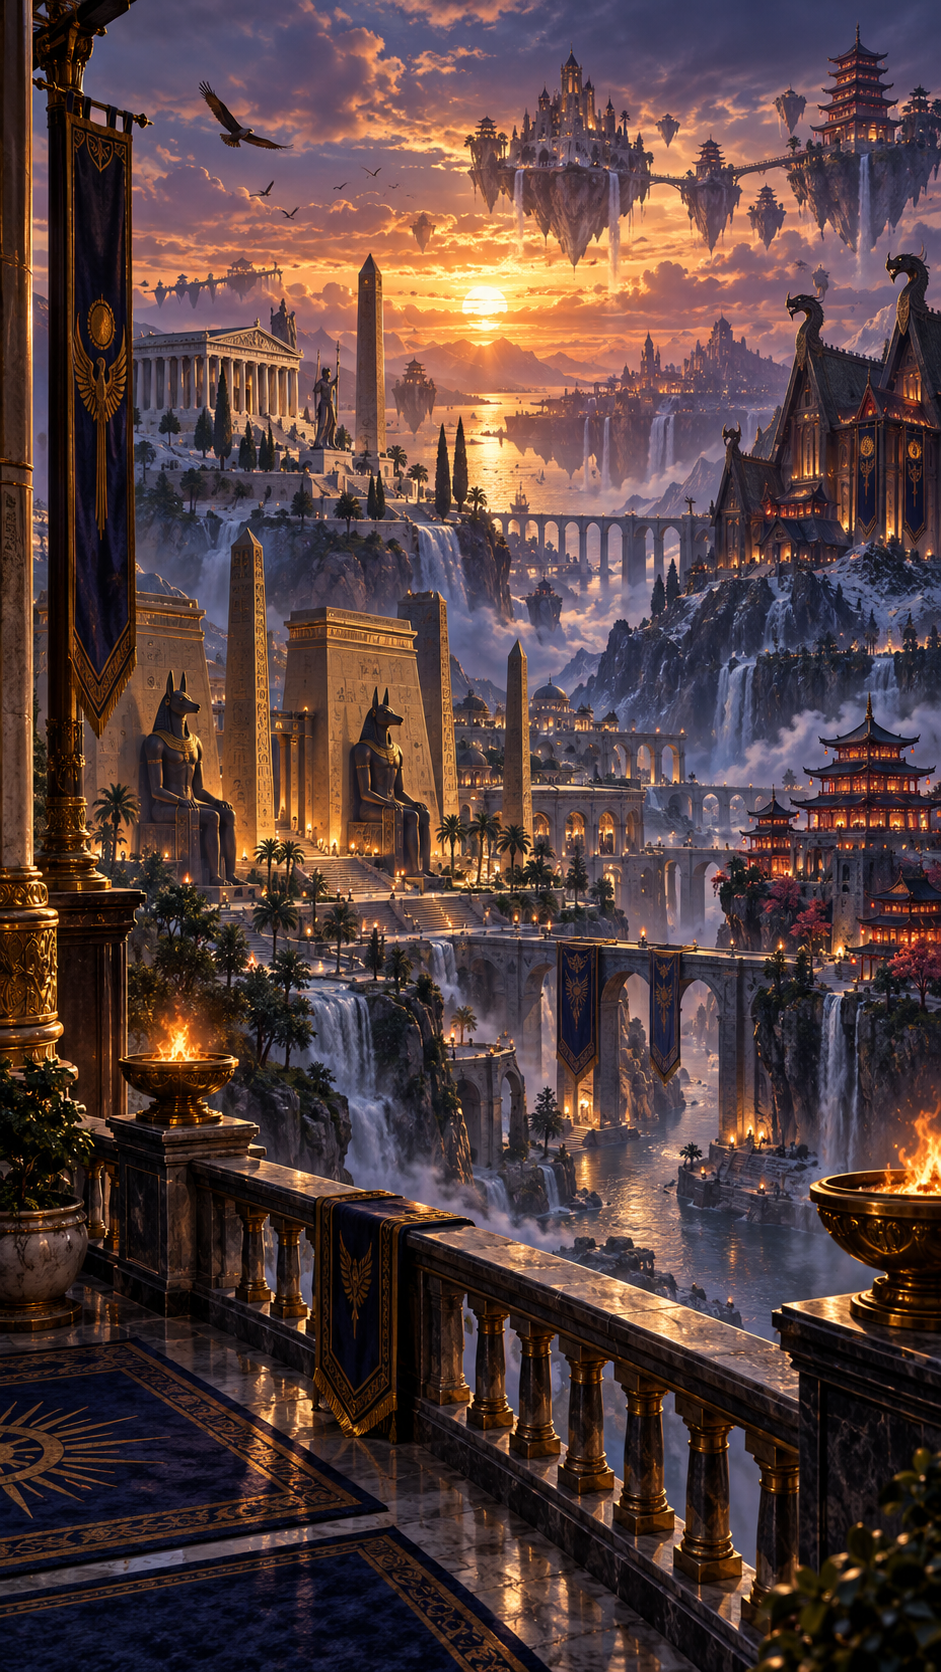
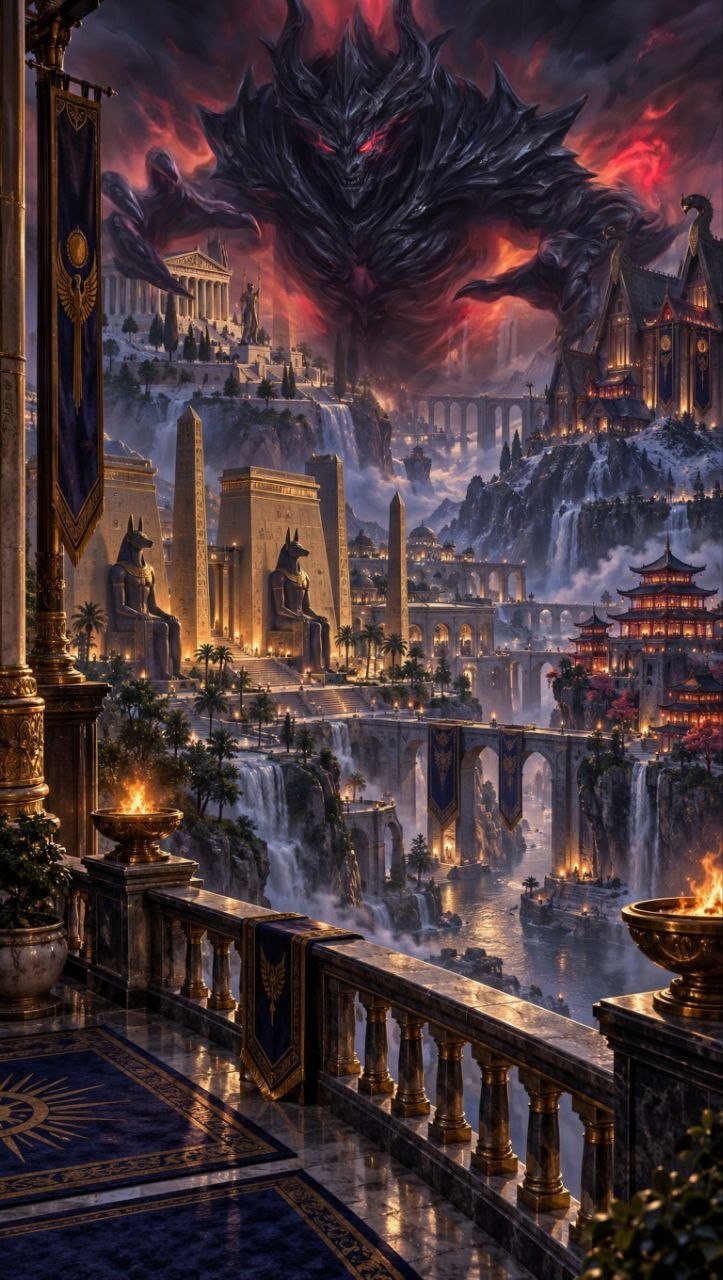
feat(home): Khalid's own boss artwork as Home background with animated red aura, glowing eyes and red embers; doors are now invisible hotspots over the scene's own buildings (arena=temple, elite dark=Egyptian temple, labyrinth=Norse hall, towers=pagoda, world boss=the boss, free gift=river)

diff --git a/Assets/Chronicles/ChroniclesGame.cs b/Assets/Chronicles/ChroniclesGame.cs
@@ -320,31 +320,50 @@ namespace MythicChronicles
                 alignment = TextAnchor.MiddleCenter };
             plateStyle.normal.textColor = OrnateGuiSkin.GoldBright;
 
-            // Side doors as named buildings: each door is an original building
-            // cutout that matches its name, with a small label plate beneath.
-            if (HomeDoor(83, 188, "elite_dark", "ELITE DARK"))
+            // Khalid's own boss artwork comes alive: a breathing red aura
+            // around the boss, glowing eyes, drifting red embers in the sky.
+            OrnateGuiSkin.PulseGlow(new Rect(140, 0, 260, 270),
+                new Color(1f, .18f, .12f, .5f), 1.3f);
+            OrnateGuiSkin.PulseGlow(new Rect(190, 40, 160, 190),
+                new Color(1f, .1f, .08f, .45f), 2.1f);
+            OrnateGuiSkin.PulseGlow(new Rect(244, 130, 22, 14),
+                new Color(1f, .08f, .08f, .9f), 3.2f);
+            OrnateGuiSkin.PulseGlow(new Rect(270, 130, 22, 14),
+                new Color(1f, .08f, .08f, .9f), 3.2f);
+            OrnateGuiSkin.Embers(new Rect(0, 0, 540, 430), 14, .03f,
+                new Color(1f, .3f, .18f, .55f));
+
+            // The doors are the buildings inside the scene itself: invisible
+            // hotspots over each named building, with a glowing label plate.
+            if (SceneDoor(new Rect(100, 170, 110, 135),
+                new Rect(90, 308, 130, 28), "ARENA"))
+            {
+                inArenaTraining = false; page = Page.ArenaTraining;
+            }
+            if (SceneDoor(new Rect(90, 370, 180, 180),
+                new Rect(115, 545, 130, 28), "ELITE DARK"))
             {
                 inTower = false; activeTrialMode = TrialMode.Normal;
                 chapterScroll = Vector2.zero; page = Page.Trials;
             }
-            if (HomeDoor(83, 340, "towers", "TOWERS"))
+            if (SceneDoor(new Rect(415, 190, 120, 150),
+                new Rect(410, 330, 130, 28), "LABYRINTH"))
+            {
+                inLabyrinth = false; page = Page.Labyrinth;
+            }
+            if (SceneDoor(new Rect(415, 395, 120, 170),
+                new Rect(410, 555, 130, 28), "TOWERS"))
             {
                 inTower = false; chapterScroll = Vector2.zero;
                 page = Page.Towers;
             }
-            if (HomeDoor(83, 492, "labyrinth", "LABYRINTH"))
-            {
-                inLabyrinth = false; page = Page.Labyrinth;
-            }
-            if (HomeDoor(458, 188, "arena", "ARENA"))
-            {
-                inArenaTraining = false; page = Page.ArenaTraining;
-            }
-            if (HomeDoor(458, 340, "world_boss", "WORLD BOSS"))
+            if (SceneDoor(new Rect(210, 70, 130, 170),
+                new Rect(205, 255, 130, 28), "WORLD BOSS"))
             {
                 inRaid = false; page = Page.Raid;
             }
-            if (HomeDoor(458, 492, "free_gift",
+            if (SceneDoor(new Rect(190, 604, 190, 44),
+                new Rect(220, 610, 130, 28),
                 progress.CanClaimDailyLogin() ? "FREE GIFT!" : "DAILY GIFT"))
                 page = Page.Login;
 
@@ -392,35 +411,19 @@ namespace MythicChronicles
                 page = Page.More;
         }
 
-        // Draws one Home side door: a named-building cutout over the vista
-        // with a small label plate beneath. Returns true when tapped.
-        private bool HomeDoor(float centerX, float y, string icon, string label)
+        // Draws a door over a building inside the Home scene: a soft idle
+        // glow plus a small label plate, and an invisible tap hotspot on the
+        // building itself. Returns true when tapped.
+        private bool SceneDoor(Rect hotspot, Rect labelRect, string label)
         {
-            const float iconH = 124f;
-            // A soft dark backing disc keeps the building readable against
-            // any part of the busy vista.
-            GUI.DrawTexture(
-                new Rect(centerX - 82f, y + 8f, 164f, iconH + 6f),
-                OrnateGuiSkin.Glow("door_back_" + icon,
-                    new Color(0f, 0f, 0f, .55f)));
-            Texture2D tex = OrnateGuiSkin.Art("door_" + icon);
-            if (tex != null)
-            {
-                float iconW = Mathf.Min(150f,
-                    iconH * tex.width / (float)tex.height);
-                GUI.DrawTexture(
-                    new Rect(centerX - iconW / 2f, y, iconW, iconH),
-                    tex, ScaleMode.ScaleToFit, true);
-            }
-            Rect labelRect = new Rect(centerX - 65f, y + iconH + 2f, 130f, 30f);
+            OrnateGuiSkin.PulseGlow(labelRect,
+                OrnateGuiSkin.GoldBright, 1.6f);
             OrnateGuiSkin.Bar(labelRect);
             GUIStyle labelStyle = new GUIStyle(subtitle) {
-                alignment = TextAnchor.MiddleCenter, fontSize = 16 };
+                alignment = TextAnchor.MiddleCenter, fontSize = 15 };
             labelStyle.normal.textColor = OrnateGuiSkin.GoldBright;
             GUI.Label(labelRect, label, labelStyle);
-            return GUI.Button(
-                new Rect(centerX - 78f, y - 4f, 156f, iconH + 40f),
-                "", GUIStyle.none);
+            return GUI.Button(hotspot, "", GUIStyle.none);
         }
 
         private void More()
